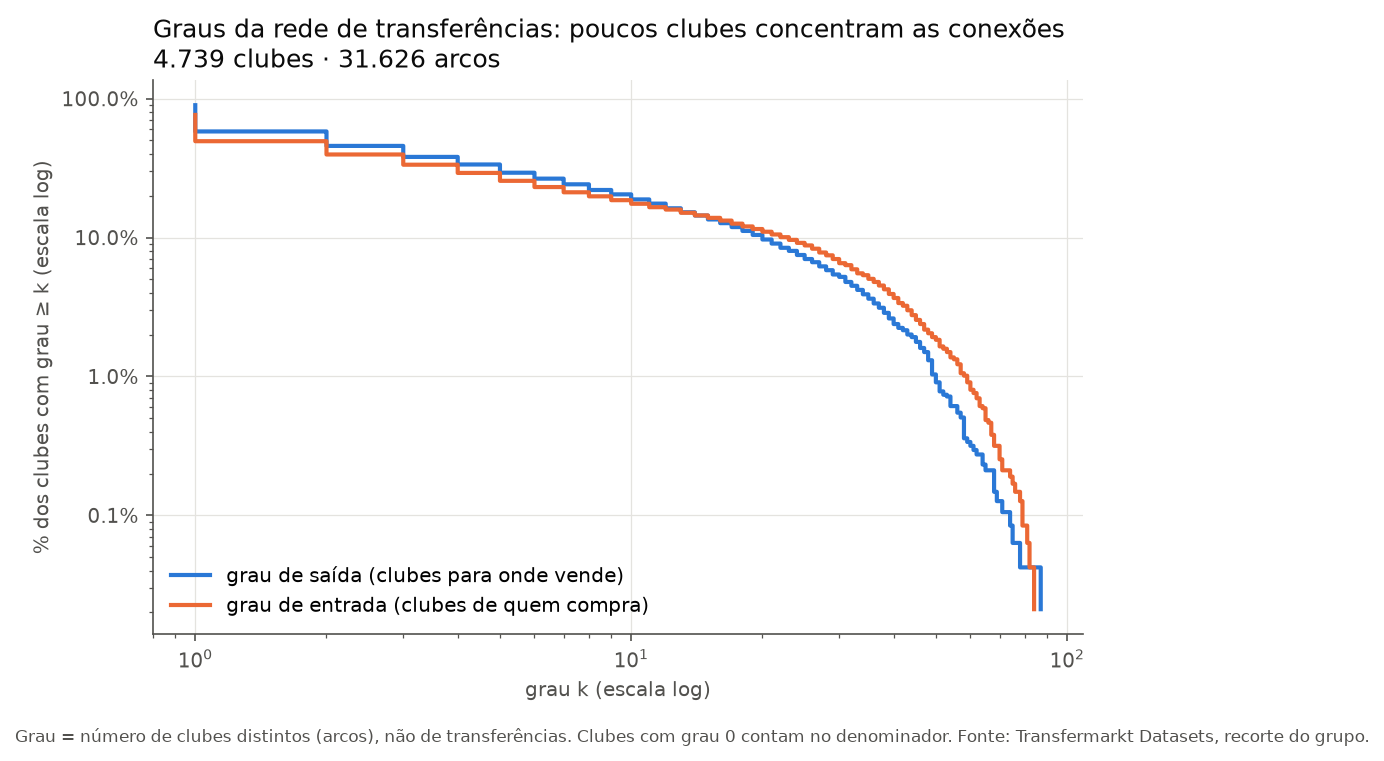
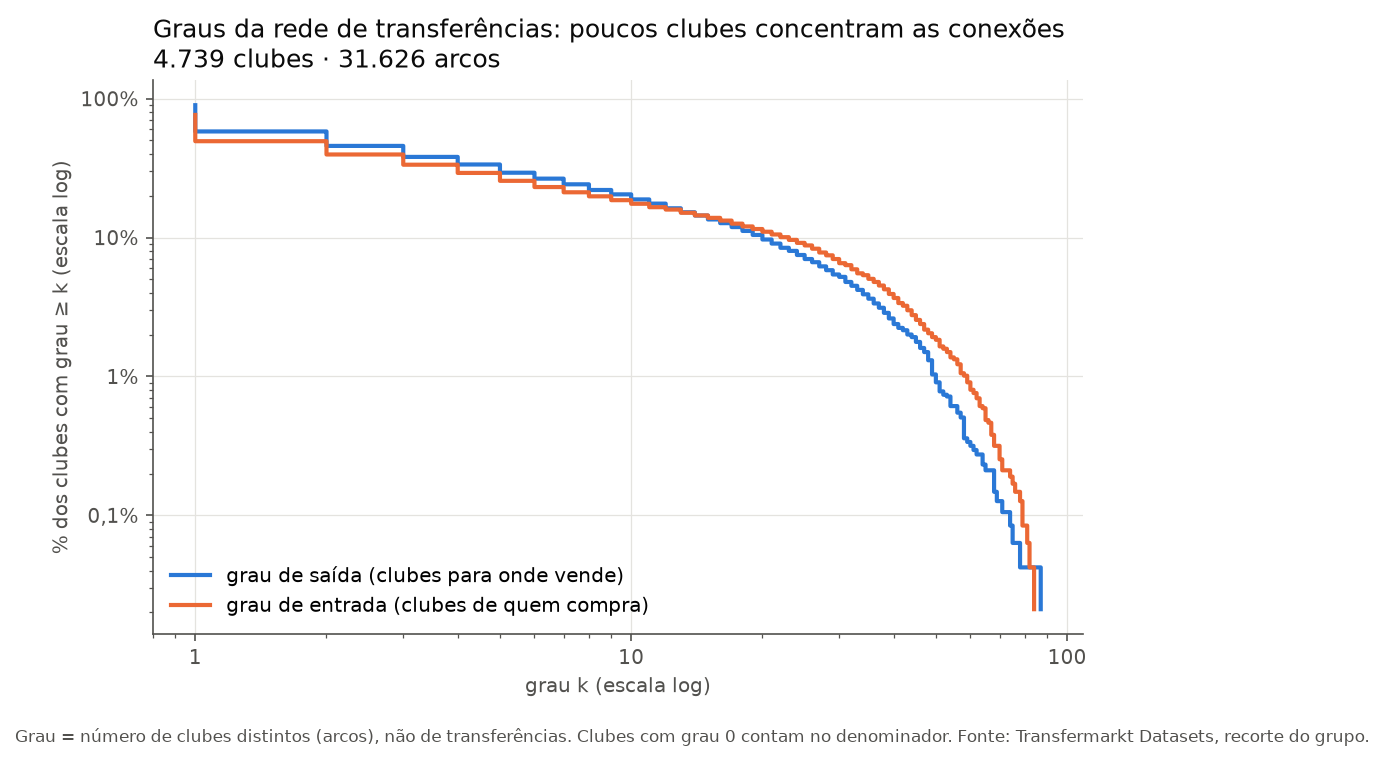
viz parte2: eixos em pt-br nos demais graficos
e1, x1, x2, a2 e a4 ainda misturavam ponto e vírgula decimal (100.0%, 0.01)
e o hífen como sinal de menos. Todos os eixos e rótulos passam pelos mesmos
formatadores; o PercentFormatter sai do módulo.

diff --git a/src/viz_parte2.py b/src/viz_parte2.py
@@ -9,7 +9,7 @@ matplotlib.use("Agg")
 import matplotlib.pyplot as plt
 import numpy as np
 from matplotlib.patheffects import withStroke
-from matplotlib.ticker import FixedLocator, FuncFormatter, NullFormatter, PercentFormatter
+from matplotlib.ticker import FixedLocator, FuncFormatter, NullFormatter
 
 from .avd_parte2 import SEM_LIGA, enriquecer, iqr
 from .graphs.dataset import carregar_dataset, temporada
@@ -148,11 +148,12 @@ def graus(d, saida):
         ax.step(valores, ccdf, where="post", color=cor, lw=2, label=rotulo)
     ax.set_xscale("log")
     ax.set_yscale("log")
-    ax.yaxis.set_major_formatter(PercentFormatter(1, decimals=1))
+    ax.set_xticks([1, 10, 100], ["1", "10", "100"])
+    ax.yaxis.set_major_formatter(FuncFormatter(pct_eixo))
     ax.set_xlabel("grau k (escala log)")
     ax.set_ylabel("% dos clubes com grau ≥ k (escala log)")
     ax.set_title(f"Graus da rede de transferências: poucos clubes concentram as conexões\n"
-                 f"{len(nos):,} clubes · {len(a):,} arcos".replace(",", "."))
+                 f"{br(len(nos))} clubes · {br(len(a))} arcos")
     ax.legend(loc="lower left")
     rodape(fig, "Grau = número de clubes distintos (arcos), não de transferências. Clubes com grau 0 contam no "
                 "denominador. Fonte: Transfermarkt Datasets, recorte do grupo.")
@@ -324,7 +325,7 @@ def explanatoria_caminho(relatorio, saida):
     i = [p[0] for p in passos].index(maior[0]) + 1
     ax.plot(i, custos[i], "o", color=DESTAQUE, ms=10)
     ax.vlines(i, custos[i], custos[i - 1], color=DESTAQUE, lw=3.2)
-    ax.annotate(f"{maior[2]}: {milhoes(maior[1])}\n{maior[1] / menor['custo']:.0%} do custo do caminho inteiro",
+    ax.annotate(f"{maior[2]}: {milhoes(maior[1])}\n{pct(maior[1] / menor['custo'])} do custo do caminho inteiro",
                 (i, (custos[i] + custos[i - 1]) / 2), xytext=(14, 0), textcoords="offset points",
                 va="center", fontsize=10.5, color=TEXTO, fontweight="bold")
     for xi, (clube, valor, jogador) in enumerate(passos, start=1):
@@ -332,7 +333,7 @@ def explanatoria_caminho(relatorio, saida):
             ax.annotate(f"{jogador}\n{milhoes(valor)}", (xi, custos[xi]), xytext=(0, -24),
                         textcoords="offset points", ha="center", va="top", fontsize=7.5, color=TEXTO_2)
     ax.set_xticks(x, [r.replace(" (", "\n(") for r in rotulos], fontsize=8)
-    ax.yaxis.set_major_formatter(FuncFormatter(milhoes))
+    ax.yaxis.set_major_formatter(FuncFormatter(eur))
     ax.set_ylabel("custo acumulado do caminho (EUR)")
     ax.set_xlabel("clube e temporada ao longo do caminho (as temporadas de espera foram omitidas)")
     ax.set_title(f"Uma só saída abaixo do valor de mercado define o caminho mais barato\n"
@@ -353,19 +354,19 @@ def explanatoria_ligas(t, saida):
     cores = [DESTAQUE if i == destaque else NEUTRO for i in g.index]
     ax.barh(y, g["neg"], color=cores, height=0.7)
     for yi, (liga, r) in enumerate(g.iterrows()):
-        ax.text(r["neg"] + 0.01, yi, f"{r['neg']:.0%}", va="center", fontsize=8.5,
+        ax.text(r["neg"] + 0.01, yi, pct(r["neg"]), va="center", fontsize=8.5,
                 color=TEXTO if liga == destaque else TEXTO_2, fontweight="bold" if liga == destaque else "normal")
     ax.set_yticks(y, [LIGAS.get(i, i) for i in g.index])
     ax.axvline(0.5, color=TEXTO_2, lw=1, ls="--")
     ax.text(0.5, len(g) - 0.4, " metade", color=TEXTO_2, fontsize=8, va="bottom")
     ax.set_xlim(0, 1.05)
-    ax.xaxis.set_major_formatter(PercentFormatter(1))
+    ax.xaxis.set_major_formatter(FuncFormatter(pct_eixo))
     ax.set_xlabel("% das transferências com peso negativo (saída abaixo do valor de mercado)")
     ax.grid(axis="y", visible=False)
     r = g.loc[destaque]
     sinal = "+" if r["mediana"] > 0 else ""
     ax.set_title(f"Só a {LIGAS.get(destaque, destaque)} compra, em geral, acima do valor de mercado\n"
-                 f"{r['neg']:.0%} das transferências para lá têm peso negativo; mediana do peso "
+                 f"{pct(r['neg'])} das transferências para lá têm peso negativo; mediana do peso "
                  f"{sinal}{br(r['mediana'] / 1e3)} mil EUR", fontsize=12)
     rodape(fig, "Liga do clube de destino (clubs.csv); ligas com pelo menos 300 transferências no recorte. "
                 "'Fora das ligas cobertas' = destino fora das ligas que o dataset acompanha. Fonte: Transfermarkt Datasets.")
@@ -417,17 +418,17 @@ def tempos(relatorio, saida):
 def escalabilidade(relatorio, saida):
     esc = relatorio["escalabilidade"]
     fig, eixos = plt.subplots(2, 2, figsize=(10, 7), sharex=True)
-    for ax, (alg, cor) in zip(eixos.flat, zip(NOMES_ALG, CORES)):
+    for ax, alg in zip(eixos.flat, NOMES_ALG):
         s = [l for l in esc if l["algoritmo"] == alg]
         x = [l["tamanho_pct"] for l in s]
-        ax.plot(x, [l["tempo_relativo"] for l in s], "o-", color=cor, lw=2, ms=7, label="tempo medido")
+        ax.plot(x, [l["tempo_relativo"] for l in s], "o-", color=cor_do_algoritmo(alg), lw=2, ms=7,
+                label="tempo medido")
         ax.plot(x, [l["teoria_relativa"] for l in s], "--", color=TEXTO_2, lw=1.4, label=s[0]["complexidade"])
         ax.set_yscale("log")
         ax.set_title(f"{NOMES_ALG[alg]} · {s[0]['complexidade']}", fontsize=10.5)
-        ax.yaxis.set_major_formatter(FuncFormatter(lambda v, _: f"{v:g}"))
+        ax.yaxis.set_major_formatter(FuncFormatter(lambda v, _: f"{v:g}".replace(".", ",")))
         ax.legend(loc="lower right", fontsize=8.5)
-        ax.set_xticks(x, [f"{p}%\n|V|={l['V']:,}\n|E|={l['E']:,}".replace(",", ".") for p, l in zip(x, s)],
-                      fontsize=7.5)
+        ax.set_xticks(x, [f"{p}%\n|V|={br(l['V'])}\n|E|={br(l['E'])}" for p, l in zip(x, s)], fontsize=7.5)
     for ax in eixos[:, 0]:
         ax.set_ylabel("relativo ao grafo completo (= 1), escala log")
     for ax in eixos[1]:
@@ -472,7 +473,7 @@ def caminhos(relatorio, saida):
     fig, ax = plt.subplots(figsize=(10, 0.62 * len(pares) + 1.6))
     y = np.arange(len(pares))
     custos = [p["custo_original"] for p in pares]
-    ax.barh(y, custos, color=CORES[2], height=0.55)
+    ax.barh(y, custos, color=cor_do_algoritmo("DIJKSTRA"), height=0.55)
     ax.axvline(0, color=TEXTO_2, lw=1)
     for yi, p in enumerate(pares):
         ax.text(p["custo_original"] * 1.02, yi, f"{milhoes(p['custo_original'])}", ha="right", va="center",
@@ -482,7 +483,7 @@ def caminhos(relatorio, saida):
                 ha="left", va="center", fontsize=8.5, color=TEXTO_2)
     ax.set_yticks(y, [f"{p['origem']} → {p['destino']}" for p in pares], fontsize=9)
     ax.set_xlim(min(custos) * 1.35, abs(min(custos)) * 1.6)
-    ax.xaxis.set_major_formatter(FuncFormatter(lambda v, _: milhoes(v) if v else "0"))
+    ax.xaxis.set_major_formatter(FuncFormatter(eur))
     ax.set_xlabel("custo original do caminho do Dijkstra (soma de valor pago − valor de mercado, EUR)")
     ax.grid(axis="y", visible=False)
     ax.set_title(f"Caminhos do Dijkstra contra a BFS: em {iguais} de {len(pares)} pares, "
